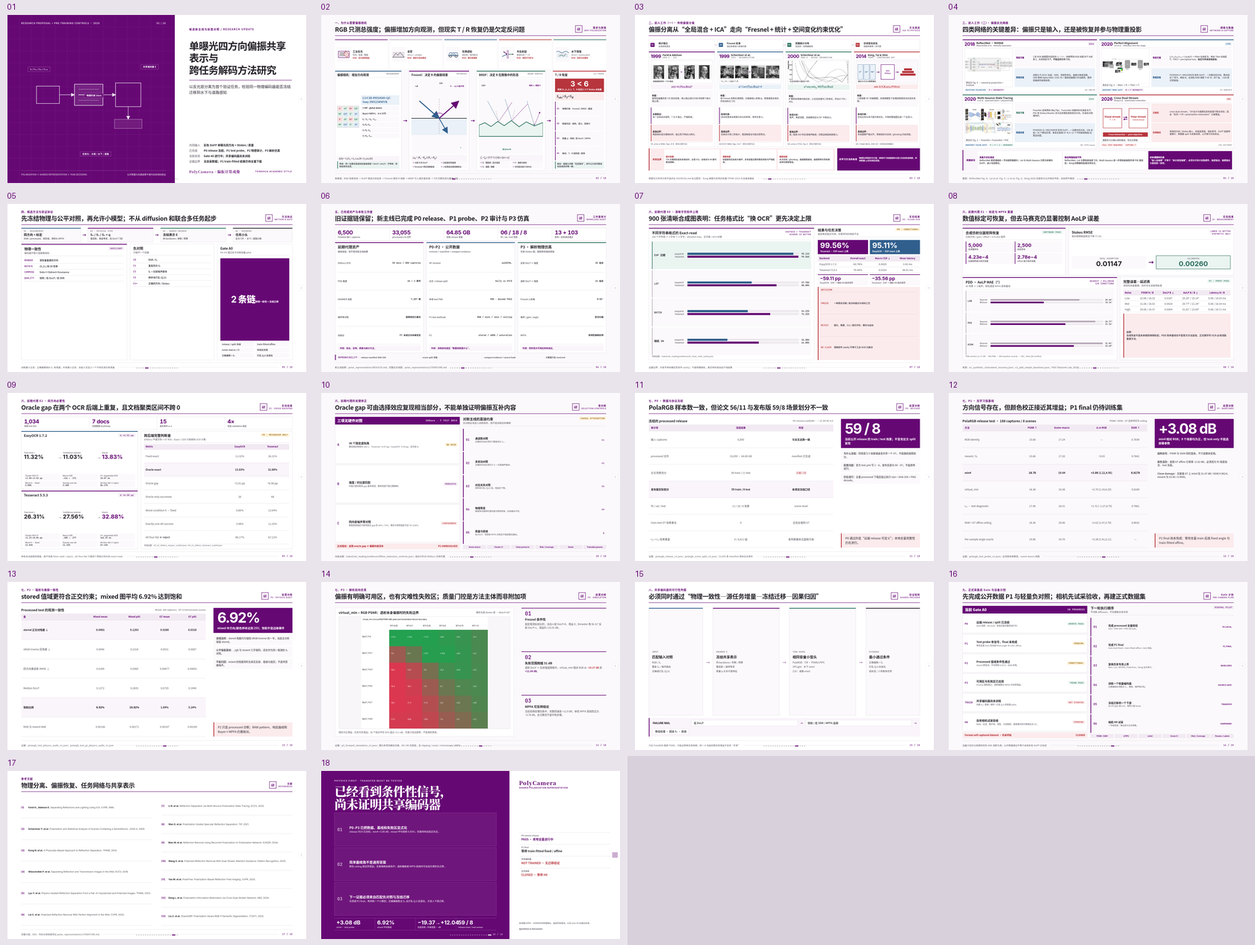
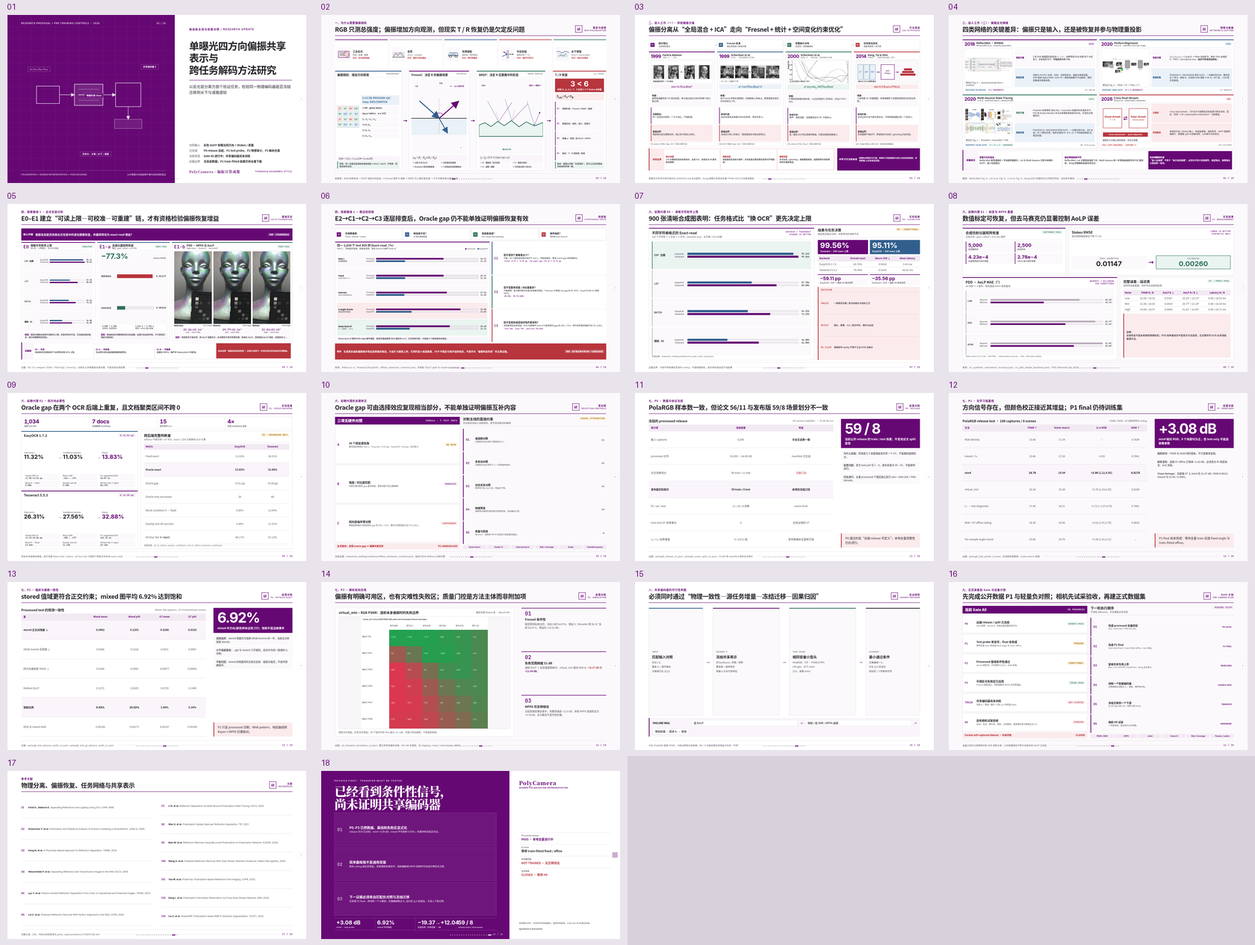
docs: compress route 1 experiment story

Changed region(s): [[0.0, 0.2158, 0.4952, 0.4008]]

diff --git a/demo/tsinghua-ppt/index.html b/demo/tsinghua-ppt/index.html
@@ -522,6 +522,59 @@
   .network-audit-item b{display:block;margin-bottom:.2vh;color:var(--accent);font-weight:800}
   .network-audit-item:last-child{background:var(--accent);color:#fff}.network-audit-item:last-child b{color:#fff}
 
+  /* 05 · 探索路线 1：E0–E1 基础链 */
+  .route1-foundation-layout{height:100%;display:grid;grid-template-columns:1fr;grid-template-rows:7.2vh minmax(0,1fr) 10.2vh;gap:.85vh}
+  .route1-question{display:grid;grid-template-columns:auto 1fr auto;gap:.75vw;align-items:center;padding:.72vh .72vw;background:var(--accent);color:#fff}
+  .route1-question strong{font:800 clamp(12px,.78vw,15px)/1.15 var(--mono);letter-spacing:.05em}
+  .route1-question span{font:700 clamp(14px,.92vw,18px)/1.3 var(--sans)}
+  .route1-question em{padding:.38vh .48vw;background:rgba(255,255,255,.14);font:750 clamp(10px,.66vw,12px)/1 var(--mono);font-style:normal;white-space:nowrap}
+  .route1-foundation-grid{min-height:0;display:grid;grid-template-columns:.92fr .9fr 1.5fr;gap:.72vw}
+  .foundation-card{min-height:0;display:grid;grid-template-rows:auto minmax(0,1fr) auto;gap:.55vh;padding:.72vh .65vw;border:1px solid var(--line);border-top:4px solid var(--accent);background:#fff}
+  .foundation-card:nth-child(2){border-top-color:var(--info)}.foundation-card:nth-child(3){border-top-color:var(--success)}
+  .foundation-head{display:grid;grid-template-columns:auto 1fr auto;gap:.5vw;align-items:center;padding-bottom:.42vh;border-bottom:1px solid var(--line)}
+  .foundation-head .id{color:var(--accent);font:800 clamp(21px,1.55vw,30px)/1 var(--mono)}
+  .foundation-head h2{font:750 clamp(14px,.9vw,18px)/1.15 var(--sans)}
+  .foundation-head p{margin-top:.18vh;color:var(--muted);font:650 clamp(9px,.61vw,11px)/1.15 var(--sans)}
+  .foundation-head .state{padding:.34vh .42vw;background:var(--success-soft);color:var(--success);font:800 clamp(9px,.59vw,11px)/1 var(--mono);white-space:nowrap}
+  .foundation-body{min-height:0;display:grid;align-content:stretch;gap:.52vh}
+  .mini-format-list{display:grid;grid-template-rows:repeat(4,1fr);gap:.38vh}
+  .mini-format-row{display:grid;grid-template-columns:4.7em 1fr;gap:.46vw;align-items:center;padding:.42vh .42vw;background:var(--paper-soft)}
+  .mini-format-row>strong{font:800 clamp(10px,.67vw,13px)/1 var(--mono);color:var(--ink)}
+  .mini-format-bars{display:grid;gap:.28vh}.mini-format-bar{display:grid;grid-template-columns:4.7em 1fr 3.3em;gap:.35vw;align-items:center;font:650 clamp(9px,.61vw,11px)/1 var(--sans);color:var(--muted)}
+  .mini-format-track{height:.75vh;min-height:6px;background:#eee9ef}.mini-format-fill{display:block;height:100%;background:var(--info)}.mini-format-fill.tess{background:var(--accent)}
+  .mini-format-value{text-align:right;color:var(--ink);font:750 clamp(9px,.61vw,11px)/1 var(--mono)}
+  .foundation-summary{padding:.55vh .48vw;background:var(--accent-pale);font:650 clamp(10px,.67vw,13px)/1.28 var(--sans);color:var(--ink-soft)}
+  .foundation-summary strong{color:var(--accent)}
+  .e1a-error-chart{display:grid;grid-template-rows:auto 1fr auto;gap:.75vh;padding:.7vh .55vw;background:var(--paper-soft)}
+  .e1a-hero{display:grid;grid-template-columns:1fr auto;align-items:end;gap:.6vw}.e1a-hero strong{color:var(--success);font:800 clamp(30px,2.45vw,47px)/1 var(--sans-latin)}.e1a-hero span{padding-bottom:.2vh;color:var(--muted);font:700 clamp(10px,.67vw,13px)/1.2 var(--sans)}
+  .e1a-bar-group{display:grid;gap:.72vh}.e1a-bar{display:grid;grid-template-columns:7.3em 1fr 5.2em;gap:.45vw;align-items:center;font:700 clamp(10px,.67vw,13px)/1.1 var(--sans);color:var(--ink-soft)}
+  .e1a-track{height:2.15vh;background:#eee9ef}.e1a-fill{display:block;height:100%;background:var(--danger)}.e1a-fill.after{background:var(--success)}.e1a-value{text-align:right;font:800 clamp(12px,.78vw,15px)/1 var(--mono);color:var(--ink)}
+  .e1a-meta{display:grid;grid-template-columns:repeat(2,1fr);gap:.42vw}.e1a-meta span{padding:.48vh .4vw;background:#fff;font:650 clamp(9px,.61vw,11px)/1.22 var(--sans);color:var(--muted)}.e1a-meta b{display:block;color:var(--ink);font-family:var(--mono)}
+  .aolp-visuals{display:grid;grid-template-columns:repeat(3,1fr);gap:.4vw;min-height:0}
+  .foundation-card:nth-child(3) .foundation-body{grid-template-rows:minmax(0,1fr) auto}.foundation-card:nth-child(3) .aolp-visuals{height:100%}
+  .aolp-view{min-height:0;display:grid;grid-template-rows:minmax(0,1fr) auto;gap:.3vh}.aolp-view img{width:100%;height:100%;display:block;object-fit:cover;border:1px solid var(--line)}.aolp-view figcaption{display:flex;justify-content:space-between;gap:.3vw;font:700 clamp(9px,.61vw,11px)/1.15 var(--sans);color:var(--muted)}.aolp-view figcaption strong{color:var(--ink)}
+  .aolp-metrics{display:grid;grid-template-columns:repeat(3,1fr);gap:.38vw}.aolp-metric{padding:.46vh .42vw;background:var(--paper-soft);text-align:center}.aolp-metric strong{display:block;color:var(--accent);font:800 clamp(13px,.9vw,17px)/1 var(--mono)}.aolp-metric span{display:block;margin-top:.2vh;color:var(--muted);font:650 clamp(9px,.59vw,11px)/1.15 var(--sans)}
+  .foundation-decision{display:grid;grid-template-columns:auto repeat(3,1fr) auto;gap:.45vw;align-items:stretch;padding:.62vh .62vw;background:var(--accent-pale);border-left:4px solid var(--accent)}
+  .foundation-decision>strong{display:grid;place-items:center;padding:0 .35vw;color:var(--accent);font:800 clamp(11px,.72vw,14px)/1.15 var(--mono)}
+  .foundation-step{display:grid;align-content:center;padding:.45vh .45vw;background:#fff;font:650 clamp(10px,.67vw,13px)/1.25 var(--sans);color:var(--ink-soft)}.foundation-step b{display:block;margin-bottom:.18vh;color:var(--accent)}
+  .foundation-verdict{display:grid;align-content:center;padding:.5vh .55vw;background:var(--danger);color:#fff;font:750 clamp(10px,.67vw,13px)/1.28 var(--sans)}
+
+  /* 06 · E2 / C1–C3 假设检验链 */
+  .hypothesis-chain-layout{height:100%;display:grid;grid-template-columns:1fr;grid-template-rows:7vh minmax(0,1fr) 9.5vh;gap:.85vh}
+  .hypothesis-axis{display:grid;grid-template-columns:repeat(4,1fr);gap:.55vw}
+  .hypothesis-node{display:grid;grid-template-columns:2.35em 1fr;gap:.48vw;align-items:center;padding:.55vh .55vw;border:1px solid var(--line);background:#fff}.hypothesis-node .id{display:grid;place-items:center;width:2.1em;aspect-ratio:1;background:var(--accent);color:#fff;font:800 clamp(10px,.67vw,13px)/1 var(--mono)}.hypothesis-node strong{font:750 clamp(12px,.78vw,15px)/1.15 var(--sans)}.hypothesis-node span{display:block;margin-top:.18vh;color:var(--muted);font:650 clamp(9px,.61vw,11px)/1.15 var(--sans)}
+  .hypothesis-node:nth-child(2) .id{background:var(--info)}.hypothesis-node:nth-child(3) .id{background:var(--success)}.hypothesis-node:nth-child(4) .id{background:var(--danger)}
+  .hypothesis-body{min-height:0;display:grid;grid-template-columns:57% 1fr;gap:.72vw}
+  .selection-chart{min-height:0;display:grid;grid-template-rows:auto auto 1fr auto;gap:.55vh;padding:.72vh .65vw;border:1px solid var(--line);border-top:4px solid var(--accent);background:#fff}
+  .selection-chart-head{display:flex;justify-content:space-between;gap:.7vw;align-items:end}.selection-chart-head h2{font:750 clamp(15px,.98vw,19px)/1.18 var(--sans)}.selection-chart-head p{margin-top:.2vh;color:var(--muted);font:600 clamp(10px,.67vw,13px)/1.2 var(--sans)}
+  .selection-legend{display:flex;gap:.7vw;font:700 clamp(9px,.61vw,11px)/1 var(--sans);color:var(--muted)}.selection-legend span::before{content:"";display:inline-block;width:.75em;height:.75em;margin-right:.3em;background:var(--accent)}.selection-legend span.easy::before{background:var(--info)}
+  .selection-rows{display:grid;grid-template-rows:repeat(5,1fr);gap:.38vh;min-height:0}.selection-row{display:grid;grid-template-columns:8.8em 1fr;gap:.55vw;align-items:center;padding:.38vh .42vw;background:var(--paper-soft)}.selection-row.oracle{background:var(--danger-soft)}.selection-row.noise{background:var(--success-soft)}
+  .selection-name strong{display:block;font:800 clamp(10px,.67vw,13px)/1.1 var(--sans)}.selection-name span{display:block;margin-top:.15vh;color:var(--muted);font:650 clamp(9px,.59vw,11px)/1.1 var(--sans)}
+  .selection-pair{display:grid;gap:.28vh}.selection-line{display:grid;grid-template-columns:4.9em 1fr 3.6em;gap:.35vw;align-items:center;font:650 clamp(9px,.6vw,11px)/1 var(--sans);color:var(--muted)}.selection-track{height:1.05vh;min-height:8px;background:#e8e2e9}.selection-fill{display:block;height:100%;background:var(--accent)}.selection-fill.easy{background:var(--info)}.selection-value{text-align:right;color:var(--ink);font:800 clamp(10px,.65vw,12px)/1 var(--mono)}
+  .selection-note{padding:.48vh .45vw;background:var(--accent-pale);font:650 clamp(10px,.67vw,13px)/1.25 var(--sans);color:var(--ink-soft)}
+  .control-stack{min-height:0;display:grid;grid-template-rows:repeat(3,1fr);gap:.48vh}.control-card{display:grid;grid-template-columns:2.6em 1fr;gap:.55vw;align-items:center;padding:.55vh .55vw;border-left:4px solid var(--info);background:#fff}.control-card:nth-child(2){border-left-color:var(--success)}.control-card:nth-child(3){border-left-color:var(--danger)}.control-card .id{color:var(--accent);font:800 clamp(16px,1.08vw,21px)/1 var(--mono)}.control-card h3{font:750 clamp(12px,.8vw,15px)/1.15 var(--sans)}.control-card p{margin-top:.25vh;color:var(--ink-soft);font:550 clamp(10px,.67vw,13px)/1.28 var(--sans)}.control-card .evidence{display:flex;flex-wrap:wrap;gap:.28vw;margin-top:.35vh}.control-card .evidence span{padding:.25vh .3vw;background:var(--paper-soft);color:var(--accent);font:750 clamp(9px,.58vw,11px)/1 var(--mono)}
+  .hypothesis-verdict{display:grid;grid-template-columns:auto 1fr auto;gap:.7vw;align-items:center;padding:.65vh .68vw;background:var(--danger);color:#fff}.hypothesis-verdict strong{font:800 clamp(11px,.72vw,14px)/1.15 var(--mono);letter-spacing:.04em}.hypothesis-verdict span{font:700 clamp(12px,.8vw,15px)/1.28 var(--sans)}.hypothesis-verdict em{padding:.38vh .45vw;background:rgba(255,255,255,.14);font:750 clamp(10px,.65vw,12px)/1.15 var(--sans);font-style:normal}
+
   /* 03 · 系统、协议与 Gate */
   .protocol-layout{height:100%;display:grid;grid-template-rows:auto 1fr;gap:1.15vh}
   .compact-flow{display:grid;grid-template-columns:1fr auto 1.1fr auto 1.1fr auto 1fr;gap:.55vw;align-items:stretch}
@@ -935,28 +988,40 @@
   </div></main><footer class="thu-footer"><span>图源：ReflectNet Fig. 4；Lei et al. Fig. 5；Li et al. Fig. 2；Deng 2026 仅报告可公开核实字段，未知项不推测</span><span class="thu-footer-line"></span><span class="thu-page-no">04 / 18</span></footer></div>
 </section>
 
-<section class="slide" data-layout="THU11" data-animate="academic" data-slide-id="system-protocol">
-  <div class="thu-page"><header class="thu-header"><div><div class="thu-section">四、候选方法与验证协议</div><h1 class="thu-title">先冻结物理与公平对照，再允许小模型；不从 diffusion 和联合多任务起步</h1></div><div class="thu-brand"><div class="thu-brand-mark">研</div><div class="thu-brand-copy"><strong>方法协议</strong><span>Method & Gate</span></div></div></header>
-  <main class="thu-content compact"><div class="protocol-layout architecture-layout">
-    <div class="compact-flow" data-anim><article class="compact-flow-card"><small>01 · MEASUREMENT</small><strong>四方向 + 标定</strong><p>RAW / processed、线性域、饱和与 MPFA</p></article><span class="compact-flow-arrow">→</span><article class="compact-flow-card"><small>02 · PHYSICAL STEM</small><strong>S₀ / S₁ / S₂ + q</strong><p>重投影、角度等变、低 DoLP 门控</p></article><span class="compact-flow-arrow">→</span><article class="compact-flow-card"><small>03 · SHARED ENCODER</small><strong>冻结表示 E</strong><p>同 backbone / 参数 / 预算</p></article><span class="compact-flow-arrow">→</span><article class="compact-flow-card"><small>04 · DECODERS</small><strong>任务小头</strong><p>反光 T/R · 水下 / 道路分割</p></article></div>
-    <div class="protocol-bottom" data-anim>
-      <article class="dense-panel accented"><div class="dense-panel-head"><div><h2>物理一致性</h2><p>编码器不能只追图像指标</p></div><span class="status-chip">AUXILIARY</span></div><div class="protocol-list"><div class="protocol-line"><strong>RENDER</strong><span>潜变量重建四方向</span></div><div class="protocol-line"><strong>ROTATE</strong><span>(S₁,S₂) 按 2θ 变换</span></div><div class="protocol-line"><strong>COMPOSE</strong><span>Sobs≈τSdirect+Snuisance</span></div><div class="protocol-line"><strong>QUALITY</strong><span>饱和 / 低 DoLP / 低 SNR</span></div></div></article>
-      <article class="dense-panel"><div class="dense-panel-head"><div><h2>负对照</h2><p>只破坏一个因素</p></div></div><div class="protocol-list"><div class="protocol-line"><strong>C0</strong><span>RGB / S₀</span></div><div class="protocol-line"><strong>C1</strong><span>重复四次 S₀</span></div><div class="protocol-line"><strong>C2</strong><span>S₀ + 匹配噪声副本</span></div><div class="protocol-line"><strong>C3</strong><span>跨样本打乱 (Q,U)</span></div><div class="protocol-line"><strong>C4+</strong><span>正确四方向 / Stokes</span></div></div></article>
-      <article class="dense-panel"><div class="gate-criterion"><div class="dense-panel-head"><div><h2>Gate A0</h2><p>P0–P3 通过后才训练轻量 pilot</p></div></div><div class="gate-delta"><div><strong>2 条链</strong><span>物理一致性 + 冻结迁移</span></div></div><div class="metric-cloud"><span>release / split 冻结</span><span>train-fitted affine</span><span>scene-macro / CI</span><span>失败区仿真</span><span>正确偏振 &gt; S₀</span><span>打乱 Q,U 后退化</span></div></div></article>
+<section class="slide" data-layout="THU14" data-animate="academic" data-slide-id="route1-foundation">
+  <div class="thu-page"><header class="thu-header"><div><div class="thu-section">四、探索路线 1 · 反光包装识别</div><h1 class="thu-title">E0–E1 建立“可读上限—可校准—可重建”链，才有资格检验偏振恢复增益</h1></div><div class="thu-brand"><div class="thu-brand-mark">研</div><div class="thu-brand-copy"><strong>基础实验</strong><span>E0–E1 FOUNDATION</span></div></div></header>
+  <main class="thu-content tight"><div class="route1-foundation-layout quant-layout">
+    <div class="route1-question" data-anim><strong>核心问题</strong><span>偏振信息能否改善反光包装中的退化图像恢复，并最终转化为 exact-read 增益？</span><em>当前：只完成前提验证</em></div>
+    <div class="route1-foundation-grid" data-anim>
+      <article class="foundation-card"><div class="foundation-head"><span class="id">E0</span><div><h2>清晰字符软件上限</h2><p>900 张 · 4 种格式 · 双 OCR 后端</p></div><span class="state">COMPLETED</span></div><div class="foundation-body"><div class="mini-format-list">
+        <div class="mini-format-row"><strong>EXP 日期</strong><div class="mini-format-bars"><div class="mini-format-bar"><span>EasyOCR</span><span class="mini-format-track"><i class="mini-format-fill" style="width:95.11%"></i></span><span class="mini-format-value">95.11</span></div><div class="mini-format-bar"><span>Tesseract</span><span class="mini-format-track"><i class="mini-format-fill tess" style="width:99.56%"></i></span><span class="mini-format-value">99.56</span></div></div></div>
+        <div class="mini-format-row"><strong>LOT</strong><div class="mini-format-bars"><div class="mini-format-bar"><span>EasyOCR</span><span class="mini-format-track"><i class="mini-format-fill" style="width:57.78%"></i></span><span class="mini-format-value">57.78</span></div><div class="mini-format-bar"><span>Tesseract</span><span class="mini-format-track"><i class="mini-format-fill tess" style="width:80%"></i></span><span class="mini-format-value">80.00</span></div></div></div>
+        <div class="mini-format-row"><strong>BATCH</strong><div class="mini-format-bars"><div class="mini-format-bar"><span>EasyOCR</span><span class="mini-format-track"><i class="mini-format-fill" style="width:54.22%"></i></span><span class="mini-format-value">54.22</span></div><div class="mini-format-bar"><span>Tesseract</span><span class="mini-format-track"><i class="mini-format-fill tess" style="width:74.22%"></i></span><span class="mini-format-value">74.22</span></div></div></div>
+        <div class="mini-format-row"><strong>随机 SN</strong><div class="mini-format-bars"><div class="mini-format-bar"><span>EasyOCR</span><span class="mini-format-track"><i class="mini-format-fill" style="width:36%"></i></span><span class="mini-format-value">36.00</span></div><div class="mini-format-bar"><span>Tesseract</span><span class="mini-format-track"><i class="mini-format-fill tess" style="width:64%"></i></span><span class="mini-format-value">64.00</span></div></div></div>
+      </div></div><div class="foundation-summary"><strong>回答：</strong>固定日期格式具有可用软件上限；任意序列仍不足。先冻结包装码格式，再讨论图像恢复收益。</div></article>
+      <article class="foundation-card"><div class="foundation-head"><span class="id">E1-a</span><div><h2>合成仪器矩阵恢复</h2><p>角度 / gain / offset + σ=0.002</p></div><span class="state">PROXY PASS</span></div><div class="foundation-body"><div class="e1a-error-chart"><div class="e1a-hero"><strong>−77.3%</strong><span>Stokes RMSE</span></div><div class="e1a-bar-group"><div class="e1a-bar"><span>理想角假设</span><span class="e1a-track"><i class="e1a-fill" style="width:95.6%"></i></span><span class="e1a-value">0.01147</span></div><div class="e1a-bar"><span>仿射标定后</span><span class="e1a-track"><i class="e1a-fill after" style="width:21.7%"></i></span><span class="e1a-value">0.00260</span></div></div><div class="e1a-meta"><span><b>5,000 / 2,500</b>总样本 / 标定样本</span><span><b>4.23e−4 / 2.78e−4</b>矩阵 / offset 最大误差</span></div></div></div><div class="foundation-summary"><strong>回答：</strong>数值标定实现能够恢复已知误差；这里只验证软件链，不代表真实相机已经标定。</div></article>
+      <article class="foundation-card"><div class="foundation-head"><span class="id">E1-b</span><div><h2>PDD · MPFA 与 AoLP</h2><p>High noise · Scene12 · hue=AoLP</p></div><span class="state">PROXY PASS</span></div><div class="foundation-body"><div class="aolp-visuals"><figure class="aolp-view"><img src="images/05-e1b-aolp-gt.webp" data-image-slot="thu14-pdd-aolp-gt" alt="PDD Scene12 高噪声条件的参考 AoLP 可视化"><figcaption><strong>Reference</strong><span>GT 4-view</span></figcaption></figure><figure class="aolp-view"><img src="images/05-e1b-aolp-nearest.webp" data-image-slot="thu14-pdd-aolp-nearest" alt="PDD Scene12 最近邻 MPFA 重建后的 AoLP 可视化"><figcaption><strong>Nearest</strong><span>PDD High</span></figcaption></figure><figure class="aolp-view"><img src="images/05-e1b-aolp-bilinear.webp" data-image-slot="thu14-pdd-aolp-bilinear" alt="PDD Scene12 双线性 MPFA 重建后的 AoLP 可视化"><figcaption><strong>Bilinear</strong><span>PDD High</span></figcaption></figure></div><div class="aolp-metrics"><div class="aolp-metric"><strong>25.26→15.14°</strong><span>Low · AoLP MAE</span></div><div class="aolp-metric"><strong>29.77→21.24°</strong><span>Mid · AoLP MAE</span></div><div class="aolp-metric"><strong>31.81→23.69°</strong><span>High · AoLP MAE</span></div></div></div><div class="foundation-summary"><strong>回答：</strong>双线性优于最近邻，但 AoLP 误差仍大；去马赛克不是中性预处理。色相为 AoLP，饱和度由 DoLP 加权，亮度来自 S₀。</div></article>
     </div>
-  </div></main><footer class="thu-footer"><span>训练最小主张：正确偏振相对 S₀ 有增量；共享最小主张：冻结 E 后至少一个不同任务仍有增量</span><span class="thu-footer-line"></span><span class="thu-page-no">05 / 18</span></footer></div>
+    <div class="foundation-decision" data-anim><strong>证据链</strong><div class="foundation-step"><b>E0 · 可读</b>目标格式在清晰条件下必须有足够 OCR 上限。</div><div class="foundation-step"><b>E1-a · 可校准</b>先证明已知仪器误差能被数值恢复。</div><div class="foundation-step"><b>E1-b · 可重建</b>再量化 MPFA、噪声对 Stokes/AoLP 的影响。</div><div class="foundation-verdict">尚未证明“偏振改善包装恢复”；这里只证明下一步真实退化实验具有可测基础。</div></div>
+  </div></main><footer class="thu-footer"><span>证据：E0 / E1 compact JSON；PDD High / Scene12；全部为公开数据或合成代理，不是自采包装结果</span><span class="thu-footer-line"></span><span class="thu-page-no">05 / 18</span></footer></div>
 </section>
 
-<section class="slide soft" data-layout="THU15" data-animate="academic" data-slide-id="workload-audit">
-  <div class="thu-page"><header class="thu-header"><div><div class="thu-section">五、已完成资产与本轮工作量</div><h1 class="thu-title">旧证据链保留；新主线已完成 P0 release、P1 probe、P2 审计与 P3 仿真</h1></div><div class="thu-brand"><div class="thu-brand-mark">研</div><div class="thu-brand-copy"><strong>工作量审计</strong><span>Workload Audit</span></div></div></header>
-  <main class="thu-content compact"><div class="workload-layout summary-layout">
-    <div class="dense-kpis workload-kpis" data-anim><div class="dense-kpi"><strong>6,500</strong><span>PolaRGB 输入 captures</span></div><div class="dense-kpi"><strong>33,055</strong><span>processed LFS 文件</span></div><div class="dense-kpi"><strong>64.85 GB</strong><span>冻结 release 体量</span></div><div class="dense-kpi"><strong>06 / 18 / 8</strong><span>fit / val / test 场景</span></div><div class="dense-kpi"><strong>13 + 103</strong><span>新包 + 旧包测试通过</span></div></div>
-    <div class="workload-cards" data-anim>
-      <article class="workload-card"><h2>前期代理资产</h2><p class="sub">继续保留，但不冒充新主线结果</p><div class="workload-list"><div><span>SHDocs OCR</span><strong>50 docs / 800 captures</strong></div><div><span>PDD 重建</span><strong>40 × 3 条件</strong></div><div><span>HAMMER 深度</span><strong>7,207 帧</strong></div><div><span>噪声零对照</span><strong>选择效应已量化</strong></div><div><span>旧结论</span><strong>P2 未成立也未被否定</strong></div></div><div class="workload-result">作用：协议、反例、质量与统计方法。</div></article>
-      <article class="workload-card"><h2>P0–P2 · 公开数据</h2><p class="sub">revision + manifest + compact evidence</p><div class="workload-list"><div><span>HF revision</span><strong>ea2829b…</strong></div><div><span>论文 / release split</span><strong>56/11 vs 59/8</strong></div><div><span>本地 test PNG</span><strong>980 · decode PASS</strong></div><div><span>P1 test methods</span><strong>RGB / min4 / vmin / ceiling</strong></div><div><span>P2</span><strong>stored / sRGB / saturation</strong></div></div><div class="workload-result">作用：训练前先固定“数据到底是什么”。</div></article>
-      <article class="workload-card"><h2>P3 · 解析物理仿真</h2><p class="sub">灰度 Stokes 层；趋势而非相机预测</p><div class="workload-list"><div><span>反射 DoLP × 强度</span><strong>30 组合</strong></div><div><span>透射 DoLP × 强度</span><strong>36 组合</strong></div><div><span>Fresnel 入射角</span><strong>0–80°</strong></div><div><span>噪声 / gain / angle</span><strong>显式扫描</strong></div><div><span>MPFA</span><strong>双线性高频反例</strong></div></div><div class="workload-result">作用：同时显示可用区和失败区。</div></article>
-    </div><div class="repro-strip" data-anim><strong>REPRODUCIBILITY</strong><span>release manifest SHA-256</span><span>scene split 冻结</span><span>compact evidence + source hash</span><span>大数据只在 /mnt/ssd</span></div>
-  </div></main><footer class="thu-footer"><span>新主线结果：polar_representation/RESULTS.md；完整论文地图：polar_representation/LITERATURE.md</span><span class="thu-footer-line"></span><span class="thu-page-no">06 / 18</span></footer></div>
+<section class="slide soft" data-layout="THU14" data-animate="academic" data-slide-id="route1-hypothesis-chain">
+  <div class="thu-page"><header class="thu-header"><div><div class="thu-section">四、探索路线 1 · 假设检验链</div><h1 class="thu-title">E2→C1→C2→C3 逐层排查后，Oracle gap 仍不能单独证明偏振恢复有效</h1></div><div class="thu-brand"><div class="thu-brand-mark">研</div><div class="thu-brand-copy"><strong>排查链</strong><span>HYPOTHESIS TESTS</span></div></div></header>
+  <main class="thu-content tight"><div class="hypothesis-chain-layout quant-layout">
+    <div class="hypothesis-axis" data-anim><div class="hypothesis-node"><span class="id">E2</span><div><strong>先观察差距</strong><span>Fixed / selector / oracle</span></div></div><div class="hypothesis-node"><span class="id">C1</span><div><strong>候选角不足？</strong><span>36 角与候选数量</span></div></div><div class="hypothesis-node"><span class="id">C2</span><div><strong>亮度差造成？</strong><span>hm / mean-std matching</span></div></div><div class="hypothesis-node"><span class="id">C3</span><div><strong>噪声抽签？</strong><span>同内容 noise best-of</span></div></div></div>
+    <div class="hypothesis-body" data-anim>
+      <article class="selection-chart"><div class="selection-chart-head"><div><h2>同一 1,034 个 test ROI 的 Exact-read（%）</h2><p>Raw I₀、训练固定策略、部署选择器、事后 Oracle 与噪声 best-of</p></div><div class="selection-legend"><span>Tesseract</span><span class="easy">EasyOCR</span></div></div><div class="rule"></div><div class="selection-rows">
+        <div class="selection-row"><div class="selection-name"><strong>Raw I₀</strong><span>单视图基线</span></div><div class="selection-pair"><div class="selection-line"><span>Tesseract</span><span class="selection-track"><i class="selection-fill" style="width:65.78%"></i></span><span class="selection-value">26.31</span></div><div class="selection-line"><span>EasyOCR</span><span class="selection-track"><i class="selection-fill easy" style="width:28.30%"></i></span><span class="selection-value">11.32</span></div></div></div>
+        <div class="selection-row"><div class="selection-name"><strong>Fixed</strong><span>train-best = I₀</span></div><div class="selection-pair"><div class="selection-line"><span>Tesseract</span><span class="selection-track"><i class="selection-fill" style="width:65.78%"></i></span><span class="selection-value">26.31</span></div><div class="selection-line"><span>EasyOCR</span><span class="selection-track"><i class="selection-fill easy" style="width:28.30%"></i></span><span class="selection-value">11.32</span></div></div></div>
+        <div class="selection-row"><div class="selection-name"><strong>Selector</strong><span>OCR confidence</span></div><div class="selection-pair"><div class="selection-line"><span>Tesseract</span><span class="selection-track"><i class="selection-fill" style="width:68.90%"></i></span><span class="selection-value">27.56</span></div><div class="selection-line"><span>EasyOCR</span><span class="selection-track"><i class="selection-fill easy" style="width:27.58%"></i></span><span class="selection-value">11.03</span></div></div></div>
+        <div class="selection-row oracle"><div class="selection-name"><strong>4-angle Oracle</strong><span>事后逐样本最优</span></div><div class="selection-pair"><div class="selection-line"><span>Tesseract</span><span class="selection-track"><i class="selection-fill" style="width:82.20%"></i></span><span class="selection-value">32.88</span></div><div class="selection-line"><span>EasyOCR</span><span class="selection-track"><i class="selection-fill easy" style="width:34.58%"></i></span><span class="selection-value">13.83</span></div></div></div>
+        <div class="selection-row noise"><div class="selection-name"><strong>Noise best-of</strong><span>I₀ + 3 副本 · m=1</span></div><div class="selection-pair"><div class="selection-line"><span>Tesseract</span><span class="selection-track"><i class="selection-fill" style="width:71.70%"></i></span><span class="selection-value">28.68</span></div><div class="selection-line"><span>EasyOCR</span><span class="selection-track"><i class="selection-fill easy" style="width:32.83%"></i></span><span class="selection-value">13.13</span></div></div></div>
+      </div><div class="selection-note">Noise best-of 使用 PDD-High 噪声模型、按真实通道像素 RMS 锚定的 m=1；它没有新内容，只增加三个略有差异的候选。</div></article>
+      <aside class="control-stack"><article class="control-card"><span class="id">C1</span><div><h3>是不是四个离散角太少？</h3><p>不是。36 个固定虚拟角仍未优于 raw I₀；但候选越多，事后 oracle gap 会机械增大。</p><div class="evidence"><span>fixed −0.97 / −0.39 pp</span><span>36-angle gap +14.41 / +5.71 pp</span></div></div></article><article class="control-card"><span class="id">C2</span><div><h3>是不是整体亮度 / 对比度差异？</h3><p>不能解释。直方图匹配与均值/标准差匹配后，Tesseract 仍保留 raw gap 的 85–93%；EasyOCR 的 ms 保留 100%。</p><div class="evidence"><span>HM 85%</span><span>MS 93–100%</span></div></div></article><article class="control-card"><span class="id">C3</span><div><h3>是不是某些候选恰好噪声更有利？</h3><p>会贡献明显选择增益。RMS 匹配噪声 best-of 已复现真实 gap 的 36% / 72%；按可读性事后锚定可达 78–126%。</p><div class="evidence"><span>Tess 36%</span><span>Easy 72%</span><span>post-hoc 78–126%</span></div></div></article></aside>
+    </div>
+    <div class="hypothesis-verdict" data-anim><strong>结论</strong><span>生成更多虚拟偏振角并事后选择最优候选，只会扩大搜索上界；它同时混入候选数量、OCR 不稳定与噪声选择效应，不能作为“偏振恢复有效”的主要证据。</span><em>需要：真实重复曝光零对照 + 可部署选择器</em></div>
+  </div></main><footer class="thu-footer"><span>来源：SHDocs a–o；Tesseract/EasyOCR；offline_extension_controls.json；文档级 35/8/7 split 与 cluster bootstrap</span><span class="thu-footer-line"></span><span class="thu-page-no">06 / 18</span></footer></div>
 </section>
 
 <section class="slide" data-layout="THU14" data-animate="academic" data-slide-id="e0-clean-ocr">
@@ -1087,9 +1152,9 @@ const SPEAKER_NOTES = [
   {id:'cover',title:'候选新主线与当前边界',section:'开场',minutes:0.4,purpose:'交代共享偏振表示的新主线、已完成 P0–P3 和尚未训练的边界',talk:['候选主线不再是只优化一个 OCR 或去反光任务，而是学习可冻结复用的偏振表示','反光层分离是第一个源任务，水下与道路分割是下游候选','目前只完成公开数据和解析仿真的 P0–P3；没有共享编码器结果，也没有自采数据'],transition:'先说明方向如何从前期深度和识读代理演进到共享表示'},
   {id:'direction-change',title:'为什么需要偏振相机',section:'物理基础',minutes:1.8,purpose:'按“RGB 场景失效—DoFP 新观测—Fresnel 线索—BRDF 复杂度—T/R 欠定恢复”建立完整动机',talk:['先看顶部五类场景：工业高光会遮笔画，雾和水下把 direct 与散射叠加，车牌有逆反射和夜间眩光，玻璃让 transmission 与 reflection 同像素叠加；RGB 只测总强度，难区分成分','LUCID Phoenix PHX050S-QC / Sony IMX250MYR 用 Bayer 与四方向微偏振阵列一次曝光获取 I0、I45、I90、I135；经过标定和重建得到 S0、S1、S2，因此能合成任意虚拟检偏角并计算 DoLP/AoLP','Fresnel 图说明 s/p 反射系数随入射角不同，Brewster 角附近 R 的偏振线索最强；这决定图像中 R 的 DoLP 和最有利检偏角','BRDF 图说明真实 R 还由粗糙度 D、Fresnel F、遮蔽 G 和微法向分布共同决定，所以高光宽度、位置、颜色和偏振在空间上变化，不能套一个全局角度','最后观测只有三个独立 Stokes 量，而 T、R 各自至少有三个未知量；偏振增加信息但问题仍欠定，需要物理重组、数据先验和质量 q，在饱和或低 DoLP 时回退或拒绝'],transition:'下一页先看传统方法如何从 ICA 逐步加入 Fresnel、统计分布和空间变化约束',cue:'按页面从上到下、从左到右讲：五场景 → 相机 → Fresnel → BRDF → 3<6'},
   {id:'classical-reflection-separation',title:'传统偏振反光分离演进',section:'问题与文献',minutes:1.7,purpose:'用四篇代表工作说明传统路线如何从全局 ICA 逐步加入 Fresnel、统计分布和空间变化约束',talk:['Farid 与 Adelson 把两幅正交检偏图视为同一 T/R 的不同线性混合，并用 ICA 寻找统计独立源；这是最经典的“光学调制 + 盲源分离”起点','Schechner 的 ICCV 1999 工作不再让混合矩阵任意变化，而是用 Fresnel 系数把权重绑定到玻璃入射角；通过重建层去相关估计角度，并解决 ICA 的层标签歧义','JOSA A 2000 进一步考虑双表面内部反射，以互信息替代只看二阶矩的相关系数，同时系统分析噪声、角度误差和入射平面歧义','Kong 2014 使用三张相差 45 度的偏振图，把入射角和入射平面方向扩展为空间变化系数场，再通过多尺度约束优化求分离','共同边界是先验失配：T/R 相似文理或相关、低偏振与噪声、多次反射和动态错位都会破坏解析假设；对深度学习的启发不是丢掉物理，而是让网络补充局部结构与语义先验，并保留物理重组和质量门控'],transition:'传统路线已经把可辨识条件讲清楚，下一页再看深度网络如何用数据先验处理更复杂的真实场景',cue:'按顶部约束轴从左到右讲四篇工作，最后落到下方“统计 / 测量 / 模型失配”'},
-  {id:'polarized-reflection-networks',title:'偏振反光网络与采集方案',section:'问题与文献',minutes:1.7,purpose:'同口径比较四篇网络的偏振输入、强度/偏振恢复层级，以及旋转偏振片与 DoFP 数据采集差异',talk:['ReflectNet 使用普通消费相机前的旋转线偏振片顺序拍摄三角度，通过 canonical projection 得到 I 垂直与 I 平行，再预测 RGB 强度 T/R 残差与融合权重；训练数据主要由 PLACE2 合成，URD 是城市玻璃场景实拍','Lei 2020 改用 PHX050S-P 与 IMX250MZR 单色 DoFP，一次曝光得到四方向 RAW；网络先估计强度 R，再估计强度 T，不恢复四方向 T/R','Lei 的 M-R 采集用黑布挡住透射场得到 R，再移除黑布拍 M，并在线性 RAW 域计算 T=M-R；数据包含 807 组和超过 100 种日常玻璃','Multi-bounce 使用 PHX050S-Q 与 IMX250MYR 彩色 DoFP；PolarNet 逐角预测 polarized T/R，FusionNet 输出最终彩色强度层，PSE 再用 Stokes/Mueller 多次反射模型重投影四方向；真实数据为 26 个静态场景并配合 10k 合成数据','Deng 2026 已确认 cross dual-stream、T/R 估计与 polarization restoration 联合方向，但开放索引无法核实具体输入、恢复监督、相机与采集场景；页面因此明确保留未知项'],transition:'已有网络说明“偏振输入、强度恢复、偏振恢复”必须拆开定义，下一页据此给出共享编码器的最小输出与公平 Gate',cue:'按每张卡先讲恢复方案，再讲蓝色的数据采集栏；Deng 卡只讲已核实和待核实边界'},
-  {id:'system-protocol',title:'候选方法与验证协议',section:'方法与协议',minutes:1.0,purpose:'说明物理 stem、共享编码器、任务头、负对照和 Gate A0',talk:['先把四方向校准为 Stokes 与质量，再进入共享编码器；decoder 保持小且同容量','物理约束包括重投影、角度等变和层重组，不能只看 PSNR','负对照只破坏一个因素：重复 S0、噪声副本、跨样本打乱 Q,U','P0–P3 未完成前不训练；通过后也只跑轻量 pilot，不先上 diffusion'],transition:'先集中展示本轮新增的公开数据与仿真工作量'},
-  {id:'workload-audit',title:'已完成资产与本轮工作量',section:'方法与协议',minutes:0.9,purpose:'区分历史资产和新主线 P0–P3 产物',talk:['旧的 SHDocs、PDD、HAMMER 不删除，但只承担协议、反例和测量资产角色','PolaRGB 远端 revision、33,055 个文件和 59/8 场景口径已经冻结','P3 已扫描反射/透射偏振、Fresnel、噪声、仪器和 MPFA；新旧测试分别 13 和 103 项通过','完整 processed 数据仍在仓库外下载，不能把 test probe 讲成 P1 final'],transition:'接下来三页用最短时间回顾旧代理实验为何仍有方法论价值'},
+  {id:'polarized-reflection-networks',title:'偏振反光网络与采集方案',section:'问题与文献',minutes:1.7,purpose:'同口径比较四篇网络的偏振输入、强度/偏振恢复层级，以及旋转偏振片与 DoFP 数据采集差异',talk:['ReflectNet 使用普通消费相机前的旋转线偏振片顺序拍摄三角度，通过 canonical projection 得到 I 垂直与 I 平行，再预测 RGB 强度 T/R 残差与融合权重；训练数据主要由 PLACE2 合成，URD 是城市玻璃场景实拍','Lei 2020 改用 PHX050S-P 与 IMX250MZR 单色 DoFP，一次曝光得到四方向 RAW；网络先估计强度 R，再估计强度 T，不恢复四方向 T/R','Lei 的 M-R 采集用黑布挡住透射场得到 R，再移除黑布拍 M，并在线性 RAW 域计算 T=M-R；数据包含 807 组和超过 100 种日常玻璃','Multi-bounce 使用 PHX050S-Q 与 IMX250MYR 彩色 DoFP；PolarNet 逐角预测 polarized T/R，FusionNet 输出最终彩色强度层，PSE 再用 Stokes/Mueller 多次反射模型重投影四方向；真实数据为 26 个静态场景并配合 10k 合成数据','Deng 2026 已确认 cross dual-stream、T/R 估计与 polarization restoration 联合方向，但开放索引无法核实具体输入、恢复监督、相机与采集场景；页面因此明确保留未知项'],transition:'已有网络说明必须先把测量链和输出层级讲清，下一页进入探索路线 1 的 E0–E1 前置实验',cue:'按每张卡先讲恢复方案，再讲蓝色的数据采集栏；Deng 卡只讲已核实和待核实边界'},
+  {id:'route1-foundation',title:'探索路线 1 · E0–E1 基础链',section:'探索路线 1',minutes:1.0,purpose:'用 E0 软件上限、E1-a 标定恢复和 E1-b MPFA/AoLP 误差，建立反光包装识别实验的可测前提',talk:['E0 先问识读器本身是否有上限：固定 EXP 日期格式接近可用，但随机序列仍明显不足，所以包装码格式必须先冻结','E1-a 在已知角度、gain、offset 与噪声的合成条件下，将 Stokes RMSE 从 0.01147 降到 0.00260，说明数值标定实现是自洽的','E1-a 仍只是合成软件链，不等于自有相机已经完成暗场、平场、方向响应和线性标定','E1-b 用 PDD 展示 MPFA 重建对 AoLP 的影响：双线性优于最近邻，但 Low/Mid/High 的 AoLP MAE 仍为 15.14/21.24/23.69 度','因此当前只证明后续实验可测，尚未证明偏振能改善反光包装恢复或 exact-read'],transition:'有了可读、可校准和可重建的前提后，下一页检验 E2 中观察到的 oracle gap 究竟来自什么'},
+  {id:'route1-hypothesis-chain',title:'E2–C3 假设检验链',section:'探索路线 1',minutes:0.9,purpose:'从 E2 的 fixed–oracle 差距出发，依次排查候选角数量、亮度对比度和噪声选择效应',talk:['E2 在两个 OCR 后端上都观察到四方向 oracle 高于训练集最佳固定 I0，但 confidence selector 只兑现少量差距','C1 表明 36 个固定虚拟角没有优于 raw I0；候选越多，oracle gap 反而机械增大，所以搜索空间本身会制造更高上界','C2 表明做直方图或均值方差匹配后 gap 仍保留，整体亮度和对比度不是主要解释','C3 构造同一 I0 内容的三个噪声副本；RMS 匹配的 noise best-of 已复现真实 gap 的 36% 和 72%，证明没有新内容也会出现选择增益','所以“生成更多偏振角再事后选最好”不能证明偏振恢复有效；需要真实重复曝光零对照和可部署选择器'],transition:'压缩页确认后，现有 E0–E2 详细页将统一删除或移入附录；当前版本暂留用于数字核对',cue:'先读左侧五组柱状条，再按右侧 C1、C2、C3 逐层排除解释'},
   {id:'e0-clean-ocr',title:'前期代理 E0 · 清晰 OCR',section:'前期代理',minutes:0.7,purpose:'保留任务格式会先决定软件上限这一前期观察',talk:['固定日期格式的清晰软件上限高，随机序列明显更低','它说明任务定义和格式约束不能在训练后补救','该页是旧工业识读代理，不是共享编码器结果'],transition:'旧代理 E1 对新主线仍直接相关：重建并不是中性预处理'},
   {id:'e1-calibration-reconstruction',title:'前期代理 E1 · 标定与 MPFA',section:'前期代理',minutes:0.8,purpose:'保留标定可恢复和去马赛克误差的证据',talk:['合成仪器恢复只说明软件链自洽','PDD 中双线性优于最近邻，但 AoLP 误差和延迟都不可忽略','这一结论直接进入共享编码器：必须把 RAW/MPFA 放进消融，而不能把 SDK 图当真值'],transition:'旧代理 E2 进一步提醒：事后选择上界不能直接转成部署收益'},
   {id:'e2-cross-backend',title:'前期代理 E2 · Oracle gap',section:'前期代理',minutes:0.9,purpose:'报告 oracle gap 的原始观察并为下一页零对照修正铺垫',talk:['两个 OCR 后端上 oracle 相对训练集最佳固定方向都为正','但 confidence selector 只兑现很少上界，且四次 OCR 增加延迟','该页只说明出现 gap；下一页说明为什么 gap 不能单独归因于偏振'],transition:'补充三项对照后，原先的“互补迹象”必须降级为未决'},

diff --git a/demo/tsinghua-ppt/speech-script.md b/demo/tsinghua-ppt/speech-script.md
@@ -13,8 +13,8 @@
 | 2 | 为什么需要偏振相机 | 1.8 | RGB 不足→方向观测→Fresnel/BRDF→T/R 仍欠定 |
 | 3 | 传统偏振反光分离 | 1.7 | ICA→Fresnel→互信息→空间变化约束优化 |
 | 4 | 偏振反光网络与采集 | 1.7 | P→I 与 P→P+I 的输出物理层级不同 |
-| 5 | 方法与 Gate | 1.0 | 先冻结物理和负对照，再允许小模型 |
-| 6 | 工作量 | 0.9 | P0–P3 已有冻结产物 |
+| 5 | 探索路线 1：E0–E1 | 1.0 | 先证明可读、可校准、可重建，尚未证明恢复有效 |
+| 6 | E2–C3 假设检验链 | 0.9 | 更多候选与事后最优不能证明偏振恢复有效 |
 | 7–10 | 前期代理 | 3.4 | 去马赛克和选择效应是新主线的直接约束 |
 | 11 | P0 | 0.9 | 论文 56/11 与 release 59/8 不一致 |
 | 12 | P1 | 1.1 | +3.08 dB 有信号，但颜色混杂和 clean damage 明显 |
@@ -71,17 +71,29 @@ Deng 2026 已能确认的是 cross dual-stream、T/R 估计和 polarization info
 
 这四篇工作的核心启发是：输入中有偏振信息，不等于输出仍保留可验证的偏振物理。后续方法必须分别报告采集硬件、强度 T/R、偏振 T/R 和四方向重投影一致性。
 
-## 第 5 页 · 候选方法与 Gate
+## 第 5 页 · 探索路线 1：E0–E1 基础链
 
-方法分四步：四方向标定，解析物理 stem，共享编码器，任务小头。每个编码器必须用同 backbone、同参数和同训练预算。
+探索路线 1 是反光包装识别，最终问题是偏振能否改善退化图像恢复，并把恢复收益转成 exact-read。但在回答它之前，要先建立三项前提。
 
-负对照包括 RGB/S0、重复四次 S0、S0 加噪声副本、跨样本打乱 Q/U。只有正确偏振稳定优于这些对照，并且打乱 Q/U 后退化，才能把增益归因于当前样本的偏振信息。
+E0 检查软件上限。900 张无反光清晰合成图中，固定 EXP 日期格式的 EasyOCR 和 Tesseract exact 分别达到 95.11% 和 99.56%；随机序列只有 36% 和 64%。因此第一项结论不是“偏振有效”，而是必须先冻结一种真实包装码格式和喷码工艺，否则恢复结果无法解释。
 
-## 第 6 页 · 已完成工作量
+E1-a 检查标定软件链。在 5,000 个合成样本中加入真实角度偏差、gain、offset 和 0.002 噪声，再用一半样本标定，Stokes RMSE 从 0.01147 降到 0.00260，下降 77.3%。这说明数值实现可以恢复已知仪器误差，但不等于真实相机已经标定。
 
-旧的 SHDocs、PDD 和 HAMMER 不删除，但只作为协议、反例和测量资产。新主线已经冻结 PolaRGB revision、33,055 个 processed 文件以及 59/8 场景口径，并完成 P1 test probe、P2 物理审计和 P3 仿真。
+E1-b 检查 MPFA 重建。右侧用 PDD High 的 Scene12 展示 AoLP：色相表示 AoLP，饱和度由 DoLP 加权，亮度来自 S0。双线性比最近邻更平滑，整体统计也更好，但 Low、Mid、High 的 AoLP MAE 仍有 15.14、21.24 和 23.69 度。因此去马赛克不能被当成无误差预处理。
 
-完整 train 仍在仓库外下载，所以现在不能把 test probe 讲成 P1 final。
+这一页只证明后续实验“可读、可校准、可重建”，并没有证明偏振已经改善反光包装恢复。
+
+## 第 6 页 · E2–C3 假设检验链
+
+E2 首先观察到差距：同一组测试 ROI 上，四方向事后 Oracle 高于训练集最佳固定 I0；但 confidence selector 对 Tesseract 只提高 1.26 个百分点，在 EasyOCR 上甚至略低于固定策略。因此观察到上界，并不代表部署方法有效。
+
+C1 检验是不是四个离散角不够。结果是 36 个固定虚拟角仍没有优于 raw I0，但候选数量从 1 增加到 36 时，Oracle gap 会持续变大。也就是说，生成更多角度再事后挑最优，会自动扩大搜索上界。
+
+C2 检验是不是亮度和对比度不同。直方图匹配与均值方差匹配后，Tesseract 仍保留原始 gap 的 85% 到 93%，EasyOCR 的均值方差匹配保留 100%。所以整体亮度和对比度不是主要解释。
+
+C3 检验是不是某些候选恰好受到更有利的噪声扰动。保持内容完全相同，只给 I0 生成三个独立噪声副本，RMS 匹配的 noise best-of 已复现真实 gap 的 36% 和 72%；如果按候选可读性事后锚定，甚至可达到 78% 到 126%。
+
+因此不能通过“生成更多偏振角度，再选择最优候选”来证明偏振恢复有效。Oracle 同时混入候选数量、OCR 不稳定和噪声选择效应；下一步必须使用真实重复曝光零对照和可部署选择器。
 
 ## 第 7 页 · 前期代理 E0
 

diff --git a/demo/tsinghua-ppt/images/SOURCES.md b/demo/tsinghua-ppt/images/SOURCES.md
@@ -32,6 +32,8 @@
 
 第 4 页 Deng et al. 2026 卡片为本项目根据论文题名、出版元数据和已核实的 cross dual-stream / T-R / polarization-restoration 方向重绘，不是论文原图。由于没有开放全文或代码，卡片明确保留输入表示、恢复监督、相机、采集方式、数据集和场景等未知字段。
 
+第 5 页 `05-e1b-aolp-{gt,nearest,bilinear}.webp` 由公开 PDD 2025 的 `High/Scene12` 四方向 PNG 生成：使用项目冻结的绿色通道、MPFA 排列 `[[90,45],[135,0]]`、最近邻/3×3 normalized bilinear 和 `linear_stokes`。可视化中色相表示 AoLP、饱和度为 `clip(4×DoLP)`、亮度为共享尺度的 S₀。它是本项目派生的定性示意，页面报告的 31.81°/23.69° 是 High 40 场景的聚合 MAE，不是 Scene12 单图指标。
+
 ## 本项目原创示意图
 
 `11-polar-a.svg`、`11-polar-b.svg`、`11-stokes.svg`、`11-quality.svg`、`11-adaptive.svg`、`11-ocr.svg` 为本项目根据研究方案绘制的数据结构示意，不代表已采集的偏振图或实验结果。
@@ -48,8 +50,8 @@ BRDF 图均为 HTML/CSS/无文字 SVG 的本项目原创机制示意，不是相
 | 2 | 五类 RGB 失效场景、彩色偏振相机、Stokes、Fresnel、microfacet BRDF 与 T/R 欠定 | LUCID Phoenix PHX050S-QC 产品资料、Sony IMX250MYR / Polarsens 资料、`05_polarization_camera_physical_models.md`、Born & Wolf *Principles of Optics*、Cook–Torrance / Walter 等 microfacet 模型、Schechner / ReflectNet 的半反射层模型；所有图为机制示意，4×4 单元非芯片实际相位图 |
 | 3 | Farid–Schechner–Kong 的传统偏振 T/R 分离演进、共同边界及对学习先验的启发 | 上述三张论文图节选；Farid & Adelson, JOSA A 1999；Schechner et al., ICCV 1999 / JOSA A 2000；Kong et al., TPAMI 2014；方法口径同步见 `polar_representation/LITERATURE.md` |
 | 4 | ReflectNet、Lei 2020、Multi-bounce 与 Deng 2026 的偏振/强度恢复层级及采集方案 | 上述三张论文架构图；对应 ECCV 2018、CVPR 2020、ECCV 2020 原文；Deng et al. 2026 仅使用出版元数据与已核实方向，具体输入、监督和采集字段按“待全文核查”处理；完整审计见 `polar_representation/LITERATURE.md` |
-| 5 | 物理 stem、共享编码器、负对照与 Gate A0 | `15_shared_polarization_encoder_pretraining_controls.md` 第 10 节 |
-| 6 | PolaRGB 与 P0–P3 工作量 | `polar_representation/evidence/polargb_release_v1.json`、`p0_p3_evidence_index_v1.json`、`polar_representation/RESULTS.md` |
+| 5 | 探索路线 1 的 E0 清晰识读上限、E1-a 合成仪器恢复与 E1-b PDD AoLP 可视化 | `e0_clean_code_sanity.json`、`e1_synthetic_instrument_recovery.json`、`e1_pdd_simple_baselines.json`；上述 PDD High/Scene12 派生图 |
+| 6 | E2、C1、C2、C3 假设检验链及 Raw I₀ / Fixed / Selector / Oracle / Noise best-of 柱状对照 | `e0_e2_shdocs_easyocr_scale4.json`、`e0_e2_shdocs_tesseract_scale4.json`、`industrial_reading/evidence/offline_extension_controls.json`；Noise best-of 使用 m=1 像素 RMS 锚点 |
 | 7 | 前期代理 E0：900 张清晰合成字符 | `industrial_reading/evidence/e0_clean_code_sanity.json` |
 | 8 | 前期代理 E1：合成仪器恢复与 PDD | `e1_synthetic_instrument_recovery.json`、`e1_pdd_simple_baselines.json` |
 | 9 | 前期代理 E2：SHDocs 双 OCR 后端 | `e0_e2_shdocs_easyocr_scale4.json`、`e0_e2_shdocs_tesseract_scale4.json` |
